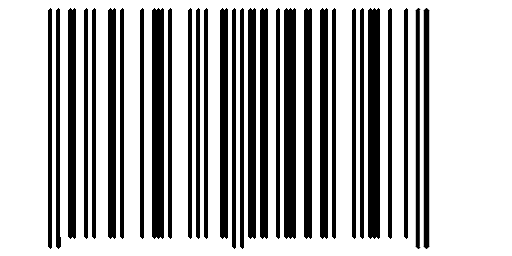
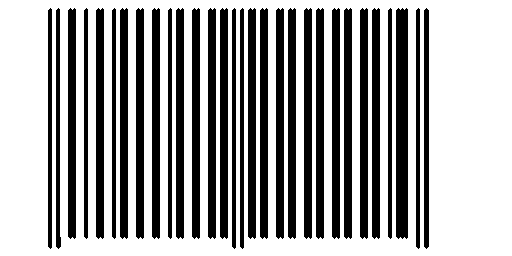
hotfix fuszera

diff --git a/src/__main__.py b/src/__main__.py
@@ -94,8 +94,6 @@ CODING_SETS = {
     "9": (A, B, B, A, B, A),
 }
 
-offset = 50
-
 
 def calc_crc(number: list[str]) -> str:
     S = 0
@@ -117,8 +115,10 @@ def split_into_digits(text_code: str) -> list[str]:
     return [letter for letter in text_code]
 
 
-def draw_start_code(img: Any) -> None:
-    global offset
+def draw_ean_barcode(digits: list[str], img: Any) -> None:
+    coding_set = CODING_SETS[digits[0]]
+    offset = 50
+
     cv.line(
         img,
         Point(offset, 10).to_tuple(),
@@ -143,13 +143,6 @@ def draw_start_code(img: Any) -> None:
         MODULE_WIDTH_PX,
     )
     offset += MODULE_WIDTH_PX
-
-
-def draw_ean_barcode(digits: list[str], img: Any) -> None:
-    global offset
-    coding_set = CODING_SETS[digits[0]]
-
-    draw_start_code(img)
 
     for index, dgt in enumerate(digits[1:7]):
         for module in coding_set[index][dgt]:
@@ -224,7 +217,29 @@ def draw_ean_barcode(digits: list[str], img: Any) -> None:
             )
             offset += MODULE_WIDTH_PX
 
-    draw_start_code(img)
+    cv.line(
+        img,
+        Point(offset, 10).to_tuple(),
+        Point(offset, IMG_HEIGHT_PX - 10).to_tuple(),
+        BLACK,
+        MODULE_WIDTH_PX,
+    )
+    offset += MODULE_WIDTH_PX
+    cv.line(
+        img,
+        Point(offset, 10).to_tuple(),
+        Point(offset, IMG_HEIGHT_PX - 10).to_tuple(),
+        WHITE,
+        MODULE_WIDTH_PX,
+    )
+    offset += MODULE_WIDTH_PX
+    cv.line(
+        img,
+        Point(offset, 10).to_tuple(),
+        Point(offset, IMG_HEIGHT_PX - 10).to_tuple(),
+        BLACK,
+        MODULE_WIDTH_PX,
+    )
 
 
 # Create a white image

diff --git a/src/read_code.py b/src/read_code.py
@@ -1,7 +1,17 @@
+from .__main__ import calc_crc, split_into_digits
 from .country_codes import country_codes
 
 while True:
     code = input("Skanuj kod: ")
+
+    digits = split_into_digits(code[:12])
+    read_crc = str(code[12])
+    correct_crc = calc_crc(digits)
+
+    if read_crc == correct_crc:
+        print("Poprawne crc")
+    else:
+        print("Niepoprawne crc")
 
     country_code = str(code[:3])
     print(f"Kod kraju: {country_code}")
